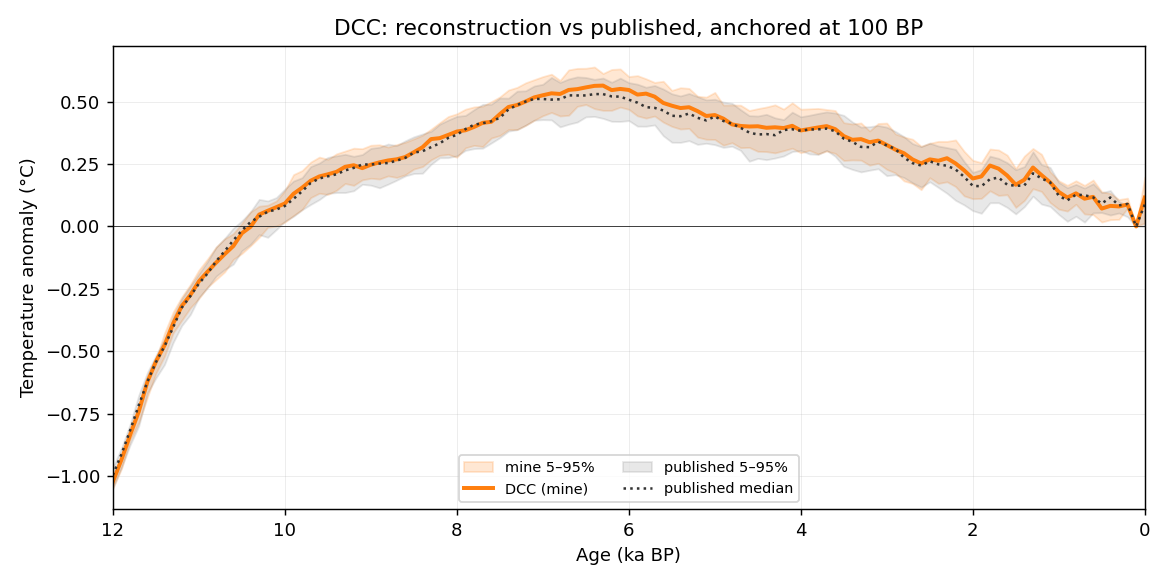
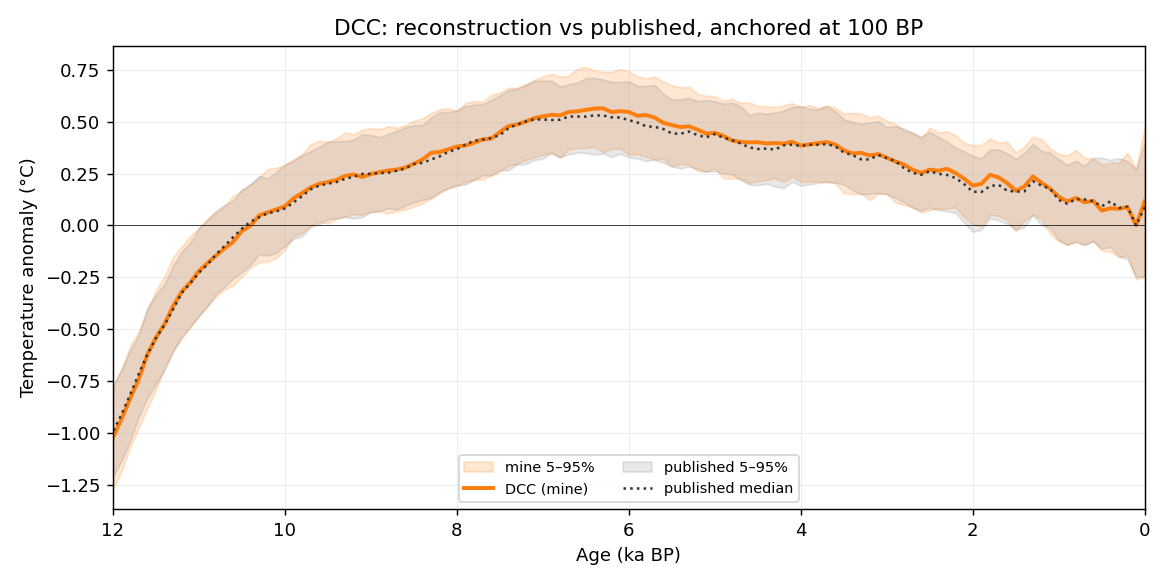
Fix band anchoring in diagnostics plots (median was outside its own band) [skip ci]
Both scripts/validate.py (site) and reproduction/diagnostics.Rmd anchored the
median, lo, and hi to their OWN value at 100 BP. With separate offsets the band
collapses to zero width at 100 BP and the median falls outside the band at most
ages (105/121 for published PaiCo). Fix: anchor the whole {median, lo, hi} set by
the MEDIAN's 100-BP offset, so the band keeps its width and the median stays
inside it (0/121). Data and all metrics are unchanged -- spread uses band WIDTH
(anchor-invariant) and maxD/bias use the anchored median -- this is purely the
plotted band. Regenerated results/validation figures.

Claude-Session: https://claude.ai/code/session_017f8QiG1WjHqzMys5FkLycz

diff --git a/scripts/validate.py b/scripts/validate.py
@@ -135,15 +135,21 @@ def compute_metrics(age, med, q05, q95, pub, pub_lo, pub_hi):
 def plot_method(method, age, med, q05, q95, pub, pub_lo, pub_hi, out_path):
     o_age = age
     o_pub_age = pub[0]
-    me = anchor(o_age, med); pu = anchor(o_pub_age, pub[1])
+    # Anchor each {median, band} triple by the MEDIAN's 100-BP offset (one offset
+    # per set), so the band keeps its width and the median stays inside it.
+    # Anchoring lo/hi by their OWN 100-BP value collapses the band at 100 BP and
+    # can push the median outside it.
+    _o = np.argsort(o_age); moff = float(np.interp(100.0, o_age[_o], med[_o]))
+    _p = np.argsort(o_pub_age); poff = float(np.interp(100.0, o_pub_age[_p], pub[1][_p]))
+    me = med - moff; pu = pub[1] - poff
     fig, ax = plt.subplots(figsize=(9, 4.5))
     kyr = o_age / 1000.0; pkyr = o_pub_age / 1000.0
     col = COLORS.get(method, "black")
     if q05 is not None and q95 is not None:
-        ax.fill_between(kyr, anchor(o_age, q05), anchor(o_age, q95),
+        ax.fill_between(kyr, q05 - moff, q95 - moff,
                         color=col, alpha=0.18, label="mine 5–95%")
     ax.plot(kyr, me, color=col, lw=2.2, label=f"{method.upper() if method != 'consensus' else 'Consensus'} (mine)")
-    ax.fill_between(pkyr, anchor(o_pub_age, pub_lo), anchor(o_pub_age, pub_hi),
+    ax.fill_between(pkyr, pub_lo - poff, pub_hi - poff,
                     color="0.4", alpha=0.15, label="published 5–95%")
     ax.plot(pkyr, pu, color="0.2", lw=1.4, ls=":", label="published median")
     ax.axhline(0, color="k", lw=0.4)
